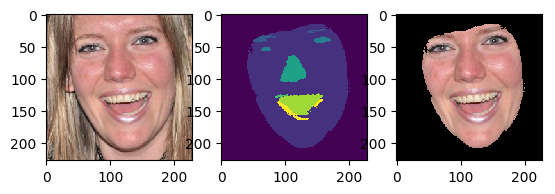
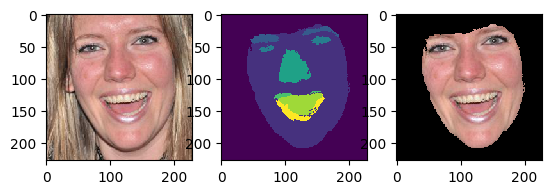
modify crf params

diff --git a/face_segment_contour.py b/face_segment_contour.py
@@ -33,9 +33,11 @@ def main(args):
         rr, cc = draw.polygon(height-landmarks[hull.vertices,1], landmarks[hull.vertices,0], mask.shape)
         mask[rr,cc] = 1
 
+        save = True if args.save == 'True' else False
         path = path[:-1] if path[:-1] == '/' else path
-        image_name = path[path.rindex('/')+1:-4] + '_contour.png'
-        show_result(lm, mask, np.tile((mask!=0)[:,:,np.newaxis], (1,1,3)) * im, save=True, filename='images/'+image_name)
+        image_name = path[path.rindex('/')+1:-4] + '_contour_nocrf.png'
+        show_result(lm, mask, np.tile((mask!=0)[:,:,np.newaxis], (1,1,3)) * im,
+                    save=save, filename='images/'+image_name)
 
         # add CRF
         prob = np.concatenate(((1-mask)[np.newaxis,:,:]*0.9 +
@@ -43,7 +45,9 @@ def main(args):
                                mask[np.newaxis, :, :]*0.9 +
                                (1-mask)[np.newaxis, :, :]*0.1), axis=0)
         map = CRF(prob, np.array(im))
-        show_result(im, map, np.tile((map!=0)[:,:,np.newaxis], (1,1,3)) * im)
+        image_name = path[path.rindex('/')+1:-4] + '_contour_crf.png'
+        show_result(im, map, np.tile((map!=0)[:,:,np.newaxis], (1,1,3)) * im,
+                    save=save, filename='images/'+image_name)
 
 
 if __name__=="__main__":
@@ -52,6 +56,8 @@ if __name__=="__main__":
     parser.add_argument('--image_list',
                         default='input/list.txt',
                         type=str, help='path to image file')
+    parser.add_argument('--save', choices=['True', 'False'],
+                        default='False', help='choose if save final result')
     args = parser.parse_args()
 
     main(args)

diff --git a/face_segment_part.py b/face_segment_part.py
@@ -49,9 +49,9 @@ def main(args):
     image_paths = read_list(args.image_list)
 
     # segment and measure performance
-    for imName in image_paths:
-        if imName[-3:] == 'jpg' or imName[-3:] == 'png':
-            imi = Image.open(imName)
+    for path in image_paths:
+        if path[-3:] == 'jpg' or path[-3:] == 'png':
+            imi = Image.open(path)
         else:
             continue
 
@@ -119,11 +119,11 @@ def main(args):
 
         # show result
         save = True if args.save == 'True' else False
-        imName = imName[:-1] if imName[-1] == '/' else imName
-        image_name = imName[imName.rindex('/')+1:-4] + '_part_nocrf_' + args.crop + '.png'
+        path = path[:-1] if path[-1] == '/' else path
+        image_name = path[path.rindex('/')+1:-4] + '_part_nocrf_' + args.crop + '.png'
         show_result(imi, mask, np.tile((mask!=0)[:,:,np.newaxis], (1,1,3)) * imi,
                     save=save, filename='images/'+image_name)
-        image_name = imName[imName.rindex('/')+1:-4] + '_part_crf_' + args.crop + '.png'
+        image_name = path[path.rindex('/')+1:-4] + '_part_crf_' + args.crop + '.png'
         show_result(imi, map, np.tile((map!=0)[:,:,np.newaxis], (1,1,3)) * imi,
                     save=save, filename='images/'+image_name)
 

diff --git a/util.py b/util.py
@@ -141,8 +141,8 @@ def CRF(prob, im):
     d.setUnaryEnergy(U)
     # set Pairwise
     im = np.ascontiguousarray(im).astype('uint8')
-    d.addPairwiseGaussian(sxy=(5,5), compat=3)
-    d.addPairwiseBilateral(sxy=(50,50), srgb=(20,20,20), rgbim=im, compat=10)
-    Q = d.inference(10)
+    d.addPairwiseGaussian(sxy=(3,3), compat=3)
+    d.addPairwiseBilateral(sxy=(30,30), srgb=(7,7,7), rgbim=im, compat=10)
+    Q = d.inference(7)
     map = np.argmax(Q, axis=0).reshape((height,width))
     return map

diff --git a/README.md b/README.md
@@ -38,18 +38,21 @@ Add crf:
 - face_segment_yuval:
 
 Model face_seg_fcn8s(size:500x500):  
-<img src="images/image04250_yuval_min.png" width="500">
+<img src="images/image04250_yuval_min.png" width="500">  
 <img src="images/image00091_yuval_min.png" width="500">  
 Model face_seg_fcn8s_300_no_aug(size:300x300):  
-<img src="images/image04250_yuval_300_nocrf_min.png" width="500">
+<img src="images/image04250_yuval_300_nocrf_min.png" width="500">  
 <img src="images/image00091_yuval_300_nocrf_min.png" width="500">  
 Add crf to second model:  
 <img src="images/image04250_yuval_300_crf_min.png" width="500">  
 <img src="images/image00091_yuval_300_crf_min.png" width="500">  
 
 - face_segment_contour:
-<img src="images/image04250_contour.png" width="500">
-<img src="images/image00091_contour.png" width="500">
+<img src="images/image04250_contour_nocrf.png" width="500">  
+<img src="images/image00091_contour_nocrf.png" width="500">  
+Add crf:  
+<img src="images/image04250_contour_crf.png" width="500">  
+<img src="images/image00091_contour_crf.png" width="500">
 
 
 ## TODO
